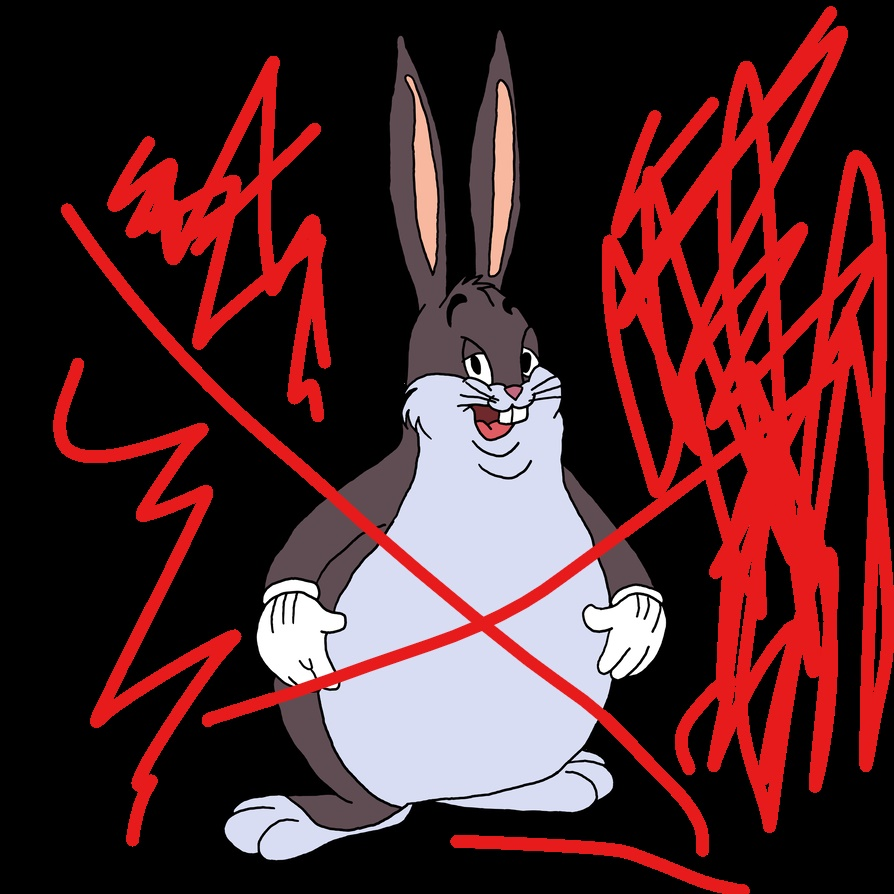
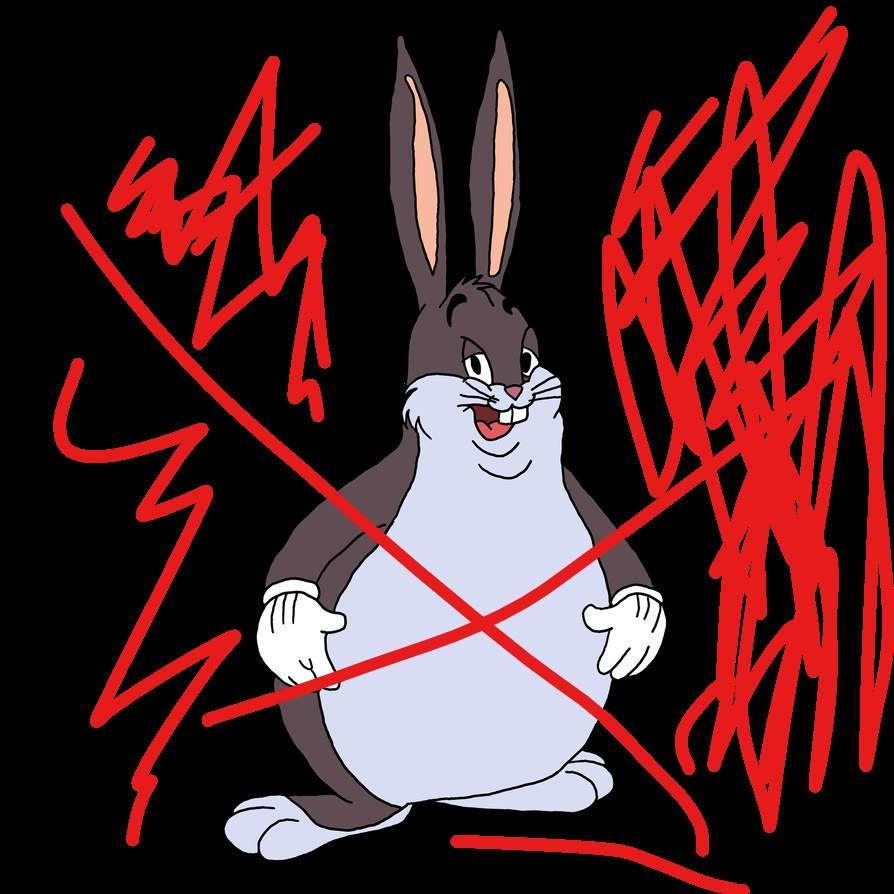
fix: reduced images size

diff --git a/_posts/2022-03-07-UMDCTF.md b/_posts/2022-03-07-UMDCTF.md
@@ -436,12 +436,12 @@ for signal in signals:
 Connecting to the challenge we receive this:
 
 ```
-Welcome to Gary's email service. Gary has setup Hashcash because we've been getting a lot 
-of emails lately. He said something about bitcoin and blockchain, but all that mumbo jumbo 
-doesn't make sense to me. He said you should get a confirmation message after passing the 
-Hashcash mechanism. 
+Welcome to Gary's email service. Gary has setup Hashcash because we've been getting a lot
+of emails lately. He said something about bitcoin and blockchain, but all that mumbo jumbo
+doesn't make sense to me. He said you should get a confirmation message after passing the
+Hashcash mechanism.
 
-ver = 1  
+ver = 1
 leading zero bits = 20
 date format = YYMMDD
 
@@ -456,9 +456,9 @@ Here is a list of the emails on our network:
 - angcheng27@hashcash.com     - suryaviyyapu@hashcash.com
 - nickfroehl@hashcash.com     - yieb@hashcash.com
 - cybercyber2@hashcash.com    - sm00thcriminal96@hashcash.com
-- ai-ya-ya@hashcash.com 
+- ai-ya-ya@hashcash.com
 
-Would you like to send an email (y/n)? 
+Would you like to send an email (y/n)?
 y   <-- our input
 X-Hashcash:
 ```
@@ -711,9 +711,9 @@ def check1(av):
 
     img1 = list(Image.open('chungus_changed.jpg').convert("1").getdata())
     img2 = list(Image.open(path).convert("1").getdata())
-   
+
     os.system(f"rm {path}")
-    
+
     bigger = len(img1)
     if bigger > len(img2):
         bigger = len(img2)
@@ -756,7 +756,7 @@ In this challenge we were given a replay file of the game OSU.
 ![OSU game](/assets/img/UMDCTF_2022/RSI-1-OSU.gif)
 
 If we analyze the given file with `hexdump` or a similar tool we can right away observe that the bytes that should represent the replay are not correct according to the [official table](https://osu.ppy.sh/wiki/en/Client/File_formats/Osr_%28file_format%29) shown below:
-![OSR file data table](/assets/img/UMDCTF_2022/osr-file-osu.png)
+![OSR file data table](/assets/img/UMDCTF_2022/osr-file-osu.jpg)
 
 Analyzing the file with `binwalk` we observe that it is an LZMA file so with the command shown below we obtain the extracted file.
 
@@ -823,7 +823,7 @@ The result is shown here:
 
 The challenge gives us a photo and little information about Justina Zimmerman: she has scurried off somewhere, she has 3 social profiles and she has a brother called Justin. The first thing we did is searching justina zimmerman on google. The first result was [Justina's Facebook account](https://www.facebook.com/profile.php?id=100077345730858):
 
-![justina](/assets/img/UMDCTF_2022/justina_justinaFB.png){: .image-full }
+![justina](/assets/img/UMDCTF_2022/justina_justinaFB.jpg){: .image-full }
 
 The profile contains more info about justina: she just graduated from university of Maryland and she decided to take a trip. There is also a link to a private group with this description.
 
@@ -831,7 +831,7 @@ _I like to tell people what I'm up to here. I felt like taking a spontaneous tri
 
 To prove we knew Justina we had to answer 3 questions:
 
-1) **How do you know Justina?** 
+1) **How do you know Justina?**
 
 2) **What is Justina's favorite TV show?**
 
@@ -851,7 +851,7 @@ To prove we knew Justina we had to answer 3 questions:
 
 We could answer to first question (we met her at university of Maryland) but unfortunately on facebook there was no more useful information, so we needed to find the other two profiles. After **_a lot_** of researches, on every existing social media, we couldn't find anything. Probably Justina Zimmerman wasn't the right username. Therefore, we decided to search Justin, Justina's brother. We easily found him [on Facebook too](https://www.facebook.com/justin.zimmerman.54943).
 
-![justin](/assets/img/UMDCTF_2022/justina_justinFB.png){: .image-full }
+![justin](/assets/img/UMDCTF_2022/justina_justinFB.jpg){: .image-full }
 
 Most of the information was related to the 2021 edition of UMDCTF, but we noticed something interesting. Justin's nickname was _Justin Zimmerman (Zimmy Boi)_. Since the challenge description told us Justin would have helped us we tried to search Justina Zimmy. Bingo! We found the two  remaining accounts on [Instagram](https://www.instagram.com/justinazimmy/ and [Twitter]https://twitter.com/justinazimmy). On these accounts we found the info on Justina's favourite singer and favourite tv show, respectively Justin Bieber and The Vampires Diary. With all the info gathered we could enter Justina's private facebook group. The first post on the group is an event called "_Meetup @ my place_", whose description contained the flag.
 
@@ -866,7 +866,7 @@ Upon entering the `Life of Justina` Facebook group, after the initial messages t
 
 Among the six images, only the one at the airport terminal seemed the right candidate for reverse image lookup.
 
-![airport](/assets/img/UMDCTF_2022/justina2_airport.png)
+![airport](/assets/img/UMDCTF_2022/justina2_airport.jpg)
 
 Running the image through yandex.ru did, in fact, reveal the Airport in question.
 
@@ -885,7 +885,7 @@ As the text from these new images suggests; our friend Justina, who doesn't even
 
 This time, we went with the stadium image to try and guess the exact France city.
 
-![stadium](/assets/img/UMDCTF_2022/justina3_stadium.png)
+![stadium](/assets/img/UMDCTF_2022/justina3_stadium.jpg)
 
 [Wikipedia](https://en.wikipedia.org/wiki/List_of_football_stadiums_in_France) has a handy list with each stadium in France. Comparing them with our image resulted in just 3 possibilities. Trying all 3 possible solutions was enough to find the correct city, which is...
 
@@ -899,7 +899,7 @@ Having previously found her [Instagram](https://www.instagram.com/justinazimmy/)
 
 On her Instagram account, under the tagged photos, there was one with his "boyfriend" promptly posted by him. The description of [his account](https://www.instagram.com/jpierre743/) revealed his full name.
 
-![John Pierre](/assets/img/UMDCTF_2022/justina4_ig.png)
+![John Pierre](/assets/img/UMDCTF_2022/justina4_ig.jpg)
 
 The challenge description stated that the registry is under the boyfriend's name. Searching `John Pierre registry`, the first result led us to the final piece of the puzzle, a link on [babylist](https://www.babylist.com/john-pierrrrrre-babyyyyy).
 
@@ -916,7 +916,7 @@ The password is on Justina's last post on Twitter.
 
 This is the initial image
 
-![ketchup start](/assets/img/UMDCTF_2022/ketchup_start.png)
+![ketchup start](/assets/img/UMDCTF_2022/ketchup_start.jpg)
 
 Using [pimeyes](https://pimeyes.com/en) multiple times, and re-analyzing the results; after 2 pass we find a better image.
 
@@ -949,7 +949,7 @@ In the viewers list there was [this account](https://www.twitch.tv/554d444354467
 
 This is a screen of the stream
 
-![rocky mountains](/assets/img/UMDCTF_2022/outdoors_rocky_mountains.png)
+![rocky mountains](/assets/img/UMDCTF_2022/outdoors_rocky_mountains.jpg)
 
 In the top right part of the orangeish building there's a Canadian flag.
 
@@ -996,7 +996,7 @@ bool vuln(void) {
   char name [16];
   char like [72];
   long local_10;
-  
+
   local_10 = *(long *)(in_FS_OFFSET + 0x28);
   puts("Please enter your name!");
   gets(name);
@@ -1059,7 +1059,7 @@ def ret2dlres(r):
     rop = ROP(exe)
     ret = rop.find_gadget(['ret'])[0]
     rop.raw(ret)
-    rop.gets(dlresolve.data_addr) 
+    rop.gets(dlresolve.data_addr)
     rop.ret2dlresolve(dlresolve)
     r.sendlineafter(b'!\n', b'%19$lx')
     r.recvline()
@@ -1103,7 +1103,7 @@ As you can see there is also another exploit in the script. After I solved the c
 
 > _Fred just won't keep up with the times. Why don't you show him the error of his ways?_
 
-This challenge don't have attachments, so the only thing we can do is to connect to the given address. 
+This challenge don't have attachments, so the only thing we can do is to connect to the given address.
 
 ```text
 I bet you can't guess my *secret* number!
@@ -1116,9 +1116,9 @@ The program asks us to guess a secret number. Let's try to play fairly:
 0,1     <-- our input1
 0,01    <-- our input2
 0,001   <-- our input3
-3 chances left! 
-2 chances left! 
-1 chances left! 
+3 chances left!
+2 chances left!
+1 chances left!
 Deprecated shmeprecated!
 Python 2 will never die!
 ```
@@ -1129,7 +1129,7 @@ Ok we couldn't guess correctly. At the end we receive also a strange message ref
 I bet you can't guess my *secret* number!
 I'll give you hint, its between 0 and 0,1000000000000000514!
 a   <-- our input
-3 chances left! 
+3 chances left!
 Traceback (most recent call last):
   File "/home/ctf/legacy.py", line 15, in <module>
     if (input(str(3-i) + " chances left! \n") == secret):
@@ -1143,7 +1143,7 @@ Interesting. We receive a python error message, which tell us that our input tak
 I bet you can't guess my *secret* number!
 I'll give you hint, its between 0 and 0,1000000000000000514!
 secret
-3 chances left! 
+3 chances left!
 No way!
 UMDCTF{**_**_*******}
 ```
@@ -1173,7 +1173,7 @@ We can firstly take a look at the code decompiled with ghidra. The binary contai
 ```c
 void main(void) {
   int iVar1;
-  
+
   setbuf((FILE *)stdout,(char *)0x0);
   setbuf((FILE *)stdin,(char *)0x0);
   setbuf((FILE *)stderr,(char *)0x0);
@@ -1199,7 +1199,7 @@ undefined8 setup(void) {
   undefined act_name [40];
   long local_10;
   undefined8 *strings;
-  
+
   local_10 = *(long *)(in_FS_OFFSET + 0x28);
   crypt_result = (char *)0x0;
   desc_length = 0;
@@ -1262,7 +1262,7 @@ undefined4 whatToDo(void) {
   int local_18;
   undefined4 local_14;
   long local_10;
-  
+
   local_10 = *(long *)(in_FS_OFFSET + 0x28);
   puts("What would you like to do?");
   local_18 = 0;
@@ -1298,7 +1298,7 @@ undefined4 whatToDo(void) {
 }
 ```
 
-Although the setup functions is a bit messy we can understand the overall behavior of the binary. Initially we are asked to give in input the name of our  act (0x68 bytes allocated). After that are executed a few useless operation (like crypt) and at main+0x60 is assigned a pointer to the function tellAJoke. Then we are asked the length of the act's description, but independently of our input the program receives 500 bytes through the fgets functions: this is a clear buffer overflow vulnerability. The function what to do simply allow us to perform our act, executing the function pointed by main+0x60 which normally is tellAJoke, or to switch our act with another. 
+Although the setup functions is a bit messy we can understand the overall behavior of the binary. Initially we are asked to give in input the name of our  act (0x68 bytes allocated). After that are executed a few useless operation (like crypt) and at main+0x60 is assigned a pointer to the function tellAJoke. Then we are asked the length of the act's description, but independently of our input the program receives 500 bytes through the fgets functions: this is a clear buffer overflow vulnerability. The function what to do simply allow us to perform our act, executing the function pointed by main+0x60 which normally is tellAJoke, or to switch our act with another.
 
 Once we understood the behavior of the program it's easy to spot the vulnerability: through a heap overflow (possible since we choose desc_length) we can overwrite the pointer in main act and execute every function we want. At this point I naively thought: "It would be perfect if we had a function like _printFlag_ or _popShell_". While I was absorbed in thoughts I realized that maybe the big amount of functions of the binary, previously mentioned, was used to hide such a "magic" function. It turned out that I was correct and with a brief search I found the _win()_ function that print the flag. The rest of the exploit simply consist in gdb checks in order to find offsets for the overflow.
 
